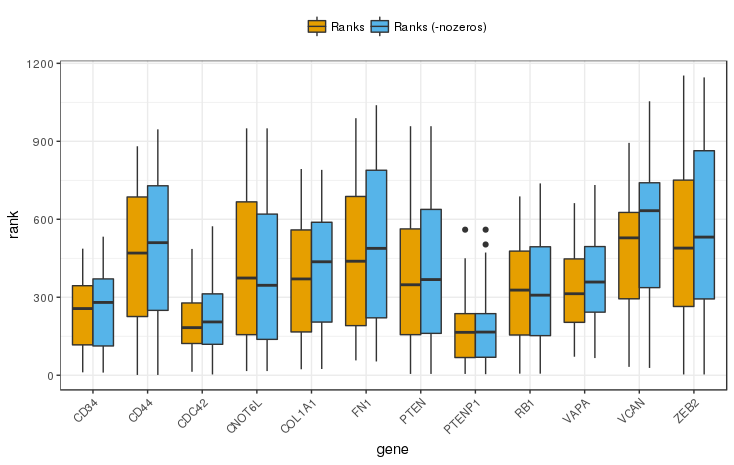
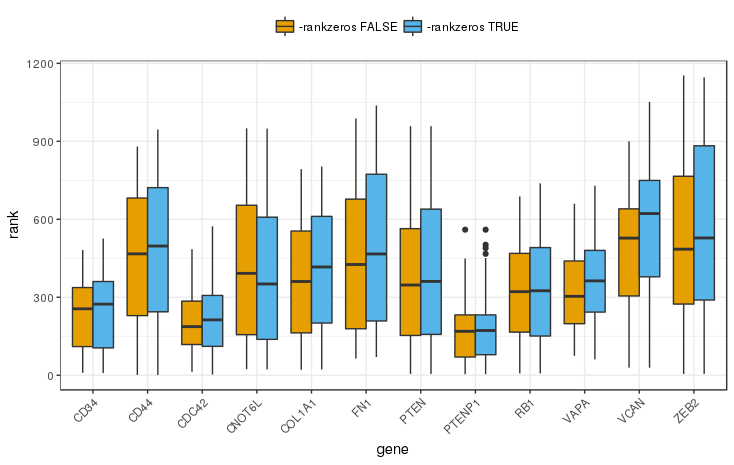
rename -nozeros to -rankzeros

diff --git a/src/main/java/org/mpii/jami/Main.java b/src/main/java/org/mpii/jami/Main.java
@@ -11,7 +11,6 @@ import org.mpii.jami.helpers.HelpOptionHandler;
 import org.mpii.jami.helpers.SettingsManager;
 
 import java.io.File;
-import java.io.FileInputStream;
 import java.io.IOException;
 import java.util.HashMap;
 import java.util.HashSet;
@@ -46,9 +45,10 @@ public class Main {
     @Option(name="-method", hidden = true, usage = "for using an alternative CMI method. One of cupid, uniform, pseudouniform.")
     String method = SettingsManager.defaultMethod;
 
-    @Option(name="-nozeros", usage = "set this flag to ignore duplicated zero expression values. Otherwise JAMI" +
+    @Option(name="-rankzeros", usage = "set this flag to rank values with zero expression values. This is not recommended" +
+            "because normally JAMI" +
             "will group duplicates of the lowest values such as 0 or the smallest negative value in log scaled data.")
-    boolean nozeros = false;
+    boolean rankzeros = false;
 
     @Option(name="-bins", hidden = true, usage = "number of bins when using uniform or pseudouniform CMI computation.")
     int numberOfBins = 0;
@@ -160,7 +160,7 @@ public class Main {
             settings.put("numberOfPermutations", numberOfPermutations);
             settings.put("pValueCutoff", pValueCutoff);
             settings.put("batchSize", batchSize);
-            settings.put("considerZeros", !nozeros);
+            settings.put("considerZeros", !rankzeros);
             settings.put("pChiSquare", pChiSquare);
             if(genes != null) settings.put("selectedGenes", new HashSet<>(genes));
             else settings.put("selectedGenes", null);

diff --git a/docs/index.rst b/docs/index.rst
@@ -69,10 +69,9 @@ JAMI usage overview:
                     regulator
   -h              : show this usage information
   -noheader       : set this option if the input expression files have no headers
-  -nozeros        : set this flag to ignore duplicated zero expression values.
-                   Otherwise JAMIwill group duplicates of the lowest values
-                   such as 0 or the smallest negative value in log scaled data.
-                   (default: false)
+  -rankzeros      : set this flag to rank values with zero expression values.
+                    This is not recommended because normally JAMI will group duplicates of the lowest values such as 0 or the smallest negative value in log scaled data.
+                    (default: false)
   -output FILE    : output file (default: JAMI_CMI_results.txt)
   -pchi N         : significance level for the chi-squared test in adaptive
                    partitioning (default: 0.05)
@@ -347,7 +346,7 @@ We arranged nodes according to the Figure 1 in [Tay2014]_ for facilitating a com
 Performance and Advantages over CUPID
 =====================================
 
-JAMI implements conditional mutual information as proposed by Sumazin et al. in their software tool CUPID. The following two plots illustrates that JAMI reproduces the CMI values computed by CUPID (if the -nozeros flag is set, see `Dealing with zero expression values`_ for details). 
+JAMI implements conditional mutual information as proposed by Sumazin et al. in their software tool CUPID. The following two plots illustrates that JAMI reproduces the CMI values computed by CUPID (if the -rankzeros flag is set, see `Dealing with zero expression values`_ for details). 
 
 .. figure:: _static/cmi_comparison.png
 
@@ -388,13 +387,13 @@ Before conditional mutual information can be computed, JAMI and CUPID transform 
 
 .. figure:: _static/consider_zeros_CMI.png
 
- Supplemental Figure 6: Comparison of CMI values when accounting for duplicated zero expression values to the -nozeros mode in which they are ignored. It is evident that the CMI values are affected by this. Notably, the -nozero mode produces positive CMI values even when a gene or miRNA is not expressed.
+ Supplemental Figure 6: Comparison of CMI values when accounting for duplicated zero expression values to the -rankzeros mode in which they are ignored. It is evident that the CMI values are affected by this. Notably, the -nozero mode produces positive CMI values even when a gene or miRNA is not expressed.
 
 .. figure:: _static/consider_zeros_pval.png
 
  Supplemental Figure 7: Comparison of p-values when accounting for duplicated zero expression values to the -nozero mode in which they are ignored. As can be expected from the differences in CMI values shown in Supplemental Figure 6, p-values may change drastically when zero expression values are present.
 
-Accounting for the bias introduced by duplicated zero expression value improves the results of the ceRNA interaction network we computed above. To test this, we iterated through each modulator gene and computed the ranks (highest CMI with rank = 1) of its interaction when accounting for zeros and when not accounting for zeros (-nozeros mode). Next, we identified miRNA interactions with experimental evidence using miRTarBase [Chou2015]_ (version 7, downloaded December 6, 2017). We hypothesize that accounting for zeros improves the ranks of miRNA interactions with experimental evidence. Indeed, for the ceRNA network of Tay et al. [Tay2014]_, we observe a significant improvement in the rank (wilcoxon test p = 0.037 two-sided, 0.019 one-sided).
+Accounting for the bias introduced by duplicated zero expression value improves the results of the ceRNA interaction network we computed above. To test this, we iterated through each modulator gene and computed the ranks (highest CMI with rank = 1) of its interaction when accounting for zeros and when not accounting for zeros (-rankzeros mode). Next, we identified miRNA interactions with experimental evidence using miRTarBase [Chou2015]_ (version 7, downloaded December 6, 2017). We hypothesize that accounting for zeros improves the ranks of miRNA interactions with experimental evidence. Indeed, for the ceRNA network of Tay et al. [Tay2014]_, we observe a significant improvement in the rank  (wilcoxon test p = 0.049 two-sided, 0.025 one-sided).
 
 .. figure:: _static/mirtarbase_rank_evidence_global.png
 
